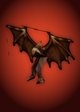
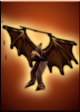
MU2_BGFX: the buff cells that are ours, restyled to sit with MuDream's -- a full-bleed ground lit from the middle, the figure filling the cell with a glow of the ground's pale tint and the cut cells' bevel (lit top, dark left and foot); the Angel on teal off its own light, the Imp on ember red. And 

diff --git a/pipeline/model_icons.py b/pipeline/model_icons.py
@@ -1,0 +1,164 @@
+"""The buff strip's cells that are ours, rendered from the thing's own model: buff_angel,
+buff_imp and buff_ale.
+
+    python3 pipeline/model_icons.py            renders through Blender (kept), then composes
+
+The Ale's was MuDream's cell 10 until 2026-09-29 -- eBuff_BlessPotion, Season 6's siege flask,
+borrowed (buff_icons.py) -- and read soft beside every cut cell and was not the Ale. Now it is
+the Ale's own bottle, the one the bag shows, on an amber ground no cut cell uses.
+
+Ours and not MuDream's. MuDream's status sheet has no cell for a pet -- MuMain shows a worn pet
+only in its own life bar (NewUIItemEnduranceInfo) -- so there is nothing for buff_icons.py to
+cut. What stands in the cell is the pet itself: the built Helper01/Helper02 from workshop/,
+three-quarter on from above, over a glow in its own colour, the way the cut cells put their
+emblem on a lit ground. The Angel's glow is the pale green-gold of the BITMAP_LIGHT MU hangs
+on it (0.5, 0.8, 0.6, GOBoid.cpp RenderMount); the Imp's is the red one it carries on the
+shoulder (0.5, 0, 0, ZzzCharacter.cpp:15433-15466).
+
+Same size as the cut cells, 80 by 112, and no alpha, as theirs have none.
+"""
+import math
+import subprocess
+import sys
+from pathlib import Path
+
+PROJECT = Path(__file__).resolve().parents[1]
+OUT = PROJECT / "source" / "interface" / "buffs"
+WORKSHOP = PROJECT / "workshop" / "items"
+BLENDER = "/Applications/Blender.app/Contents/MacOS/Blender"
+W, H = 80, 112
+SCALE = 4  # composed at four times and taken down, for clean edges
+RENDER_SIZE = 1600  # the render, square; cropped to the figure, which is small in it
+
+PETS = {
+    # name: the model, the ground's lit centre and its edge, the glow round the figure, and the
+    # camera's turn about the pet. A ground each of its own hue beside the cut cells' crimson,
+    # blue, olive, orange and green: the Angel's is teal off its own light (0.5, 0.8, 0.6), the
+    # Imp's an ember red off its (0.5, 0, 0), deeper and yellower than Defense's pink crimson.
+    "angel": ("pets/Helper01", (25, 140, 140), (2, 22, 30), (215, 255, 240), 35.0),
+    "imp": ("pets/Helper02", (240, 100, 30), (48, 4, 2), (255, 215, 130), 35.0),
+    "ale": ("misc/Ale01", (225, 150, 35), (52, 22, 2), (255, 240, 180), 20.0),
+}
+
+# Degrees, anticlockwise, for what stands too straight in its cell.
+LEAN = {"ale": 24.0}
+
+RENDER = r'''
+import bpy, math, sys, mathutils
+glb, out, turn = sys.argv[-3], sys.argv[-2], float(sys.argv[-1])
+bpy.ops.wm.read_factory_settings(use_empty=True)
+bpy.ops.import_scene.gltf(filepath=glb)
+meshes = [o for o in bpy.context.scene.objects if o.type == "MESH"]
+lo = mathutils.Vector((1e9, 1e9, 1e9)); hi = -lo
+for o in meshes:
+    for c in o.bound_box:
+        p = o.matrix_world @ mathutils.Vector(c)
+        lo = mathutils.Vector(map(min, lo, p)); hi = mathutils.Vector(map(max, hi, p))
+centre = (lo + hi) / 2
+size = max(hi - lo)
+scene = bpy.context.scene
+scene.render.engine = "BLENDER_EEVEE_NEXT" if "BLENDER_EEVEE_NEXT" in [e.identifier for e in bpy.types.RenderSettings.bl_rna.properties["engine"].enum_items] else "BLENDER_EEVEE"
+scene.render.resolution_x = scene.render.resolution_y = %(size)d
+scene.render.film_transparent = True
+scene.world = bpy.data.worlds.new("w"); scene.world.use_nodes = True
+scene.world.node_tree.nodes["Background"].inputs[1].default_value = 0.6
+cam = bpy.data.objects.new("cam", bpy.data.cameras.new("cam"))
+scene.collection.objects.link(cam); scene.camera = cam
+cam.data.type = "ORTHO"; cam.data.ortho_scale = size * 1.25
+a = math.radians(turn)
+d = size * 3
+cam.location = centre + mathutils.Vector((math.sin(a) * d, -math.cos(a) * d, d * 0.35))
+cam.rotation_euler = (centre - cam.location).to_track_quat("-Z", "Y").to_euler()
+for name, energy, rot in (("key", 4.0, (50, 0, 30)), ("fill", 1.5, (60, 0, -120))):
+    l = bpy.data.objects.new(name, bpy.data.lights.new(name, "SUN"))
+    l.data.energy = energy; l.rotation_euler = [math.radians(v) for v in rot]
+    scene.collection.objects.link(l)
+scene.render.filepath = out
+bpy.ops.render.render(write_still=True)
+'''
+
+
+def render(glb: Path, out: Path, turn: float) -> None:
+    script = out.with_suffix(".py")
+    script.write_text(RENDER % {"size": RENDER_SIZE})
+    subprocess.run([BLENDER, "--background", "--python", str(script), "--", str(glb), str(out),
+                    str(turn)], check=True, stdout=subprocess.DEVNULL)
+    script.unlink()
+
+
+def compose(figure: Path, centre, edge, glow, out: Path, lean: float = 0.0) -> None:
+    """The cut cells' own treatment, read off them rather than invented: a full-bleed ground
+    lit from the middle and never gone to black, one emblem filling the cell with a glow of a
+    pale tint of the ground round it, and the bevel every one of them has -- a lit band along
+    the top, a dark line down the left and a dark foot (buff_defense: (244, 144, 178) on the
+    top row over (140, 42, 67), (41, 8, 0) at the foot)."""
+    from PIL import Image, ImageChops, ImageFilter
+
+    w, h = W * SCALE, H * SCALE
+    ground = Image.new("RGB", (w, h))
+    px = ground.load()
+    for y in range(h):
+        for x in range(w):
+            t = min(1.0, math.hypot((x - w / 2) / (w * 0.75), (y - h * 0.42) / (h * 0.7)))
+            t = t ** 1.1
+            px[x, y] = tuple(int(c * (1 - t) + e * t) for c, e in zip(centre, edge))
+    pet = Image.open(figure).convert("RGBA")
+    # Leaned, where the thing is a bottle standing straight -- the cut cells' emblems are thrown
+    # across the cell rather than stood in it, the flask this replaced among them.
+    if lean:
+        pet = pet.rotate(lean, resample=Image.BICUBIC, expand=True)
+    # Cropped to the figure and fitted to the cell, whatever else the model's bounds held --
+    # filling it, as the cut cells' emblems do.
+    pet = pet.crop(pet.getchannel("A").point(lambda a: 255 if a > 8 else 0).getbbox())
+    fit = min(w * 0.96 / pet.width, h * 0.86 / pet.height)
+    pet = pet.resize((max(1, int(pet.width * fit)), max(1, int(pet.height * fit))), Image.LANCZOS)
+    placed = Image.new("RGBA", (w, h), (0, 0, 0, 0))
+    placed.paste(pet, ((w - pet.width) // 2, int(h * 0.5) - pet.height // 2))
+    pet = placed
+    alpha = pet.getchannel("A")
+    # The glow: the figure's shape grown and softened, in the pale tint, so a dark imp and a
+    # pale angel both stand off their ground at thirty pixels.
+    halo = alpha.filter(ImageFilter.MaxFilter(SCALE * 4 + 1)).filter(ImageFilter.GaussianBlur(SCALE * 5))
+    halo = halo.point(lambda a: int(min(255, a * 1.6)))
+    ground.paste(Image.new("RGB", (w, h), glow), (0, 0), halo)
+    # A thin dark line hugging it inside the glow, so the edge is drawn and not smudged.
+    line = alpha.filter(ImageFilter.MaxFilter(SCALE + 1)).filter(ImageFilter.GaussianBlur(SCALE * 0.6))
+    line = ImageChops.subtract(line, alpha).point(lambda a: int(a * 0.6))
+    ground.paste(Image.new("RGB", (w, h), tuple(int(c * 0.25) for c in edge)), (0, 0), line)
+    ground.paste(pet, (0, 0), pet)
+
+    small = ground.resize((W, H), Image.LANCZOS)
+    bevel = small.load()
+    lit = tuple(min(255, int(c * 0.35 + 255 * 0.65)) for c in centre)
+    dark = tuple(int(c * 0.35) for c in edge)
+    for x in range(W):
+        bevel[x, 0] = lit
+        bevel[x, 1] = tuple((a + b) // 2 for a, b in zip(lit, bevel[x, 1]))
+        bevel[x, H - 1] = dark
+        bevel[x, H - 2] = tuple((a + b) // 2 for a, b in zip(dark, bevel[x, H - 2]))
+    for y in range(1, H - 1):
+        bevel[0, y] = dark
+        bevel[W - 1, y] = tuple((a + b) // 2 for a, b in zip(dark, bevel[W - 1, y]))
+    small.save(out)
+
+
+def main() -> int:
+    OUT.mkdir(parents=True, exist_ok=True)
+    for name, (item, centre, edge, glow, turn) in PETS.items():
+        glb = WORKSHOP / item / f"{Path(item).name}.glb"
+        if not glb.exists():
+            print(f"missing {glb}: build it with tools/asset.sh {Path(item).name}",
+                  file=sys.stderr)
+            return 1
+        # The render is kept beside the model in workshop/ and reused while the model is older,
+        # so a change to the composition does not wait on Blender.
+        figure = WORKSHOP / item / f"{Path(item).name}_icon_figure.png"
+        if not figure.exists() or figure.stat().st_mtime < glb.stat().st_mtime:
+            render(glb, figure, turn)
+        compose(figure, centre, edge, glow, OUT / f"buff_{name}.png", LEAN.get(name, 0.0))
+        print(f"wrote {OUT / f'buff_{name}.png'}")
+    return 0
+
+
+if __name__ == "__main__":
+    sys.exit(main())

diff --git a/src/game/ui/hud.cpp b/src/game/ui/hud.cpp
@@ -120,7 +120,7 @@ const char* buffArt(int32_t skill) {
     }
 }
 
-// The pets' cells, ours: each rendered from the pet's own model by pipeline/pet_icons.py.
+// The pets' cells, ours: each rendered from the pet's own model by pipeline/model_icons.py.
 const char* petArt(int pet) { return pet == 0 ? "buff_angel" : pet == 1 ? "buff_imp" : nullptr; }
 
 // The painted key labels: a dark cell on rows 164 to 177 under every box, the figure centred on

diff --git a/docs/pets.md b/docs/pets.md
@@ -75,7 +75,7 @@ jewel group (0.001 a kill, drop level ≤ monster level, no 12-level window).
   +50 increased", "Increase 30% of attacking & Wizardry Dmg"), `Life n / 255` in the foot. They
   ride in the jewel drop group but are not jewels: no gold name, droppable, not bold on the ground.
 - **Buff strip** (`game/ui/hud.cpp`): the pet's cell first, its Life as the bar. The two icons are
-  ours, rendered from the pets' own models by `pipeline/pet_icons.py` (MuDream has no pet cell).
+  ours, rendered from the pets' own models by `pipeline/model_icons.py` (MuDream has no pet cell).
 - **Drawn** (`game/pets.h`): cooked as standalone figures on every map (`tools/cook.py`). The Imp
   rides `Bip01 L Clavicle` at (20,0,0) in the bone's frame (`Figure::mount`); the Angel flies
   GOBoid's steering at 25 Hz, drawn between its last two steps with an eased heading, at 0.7.
